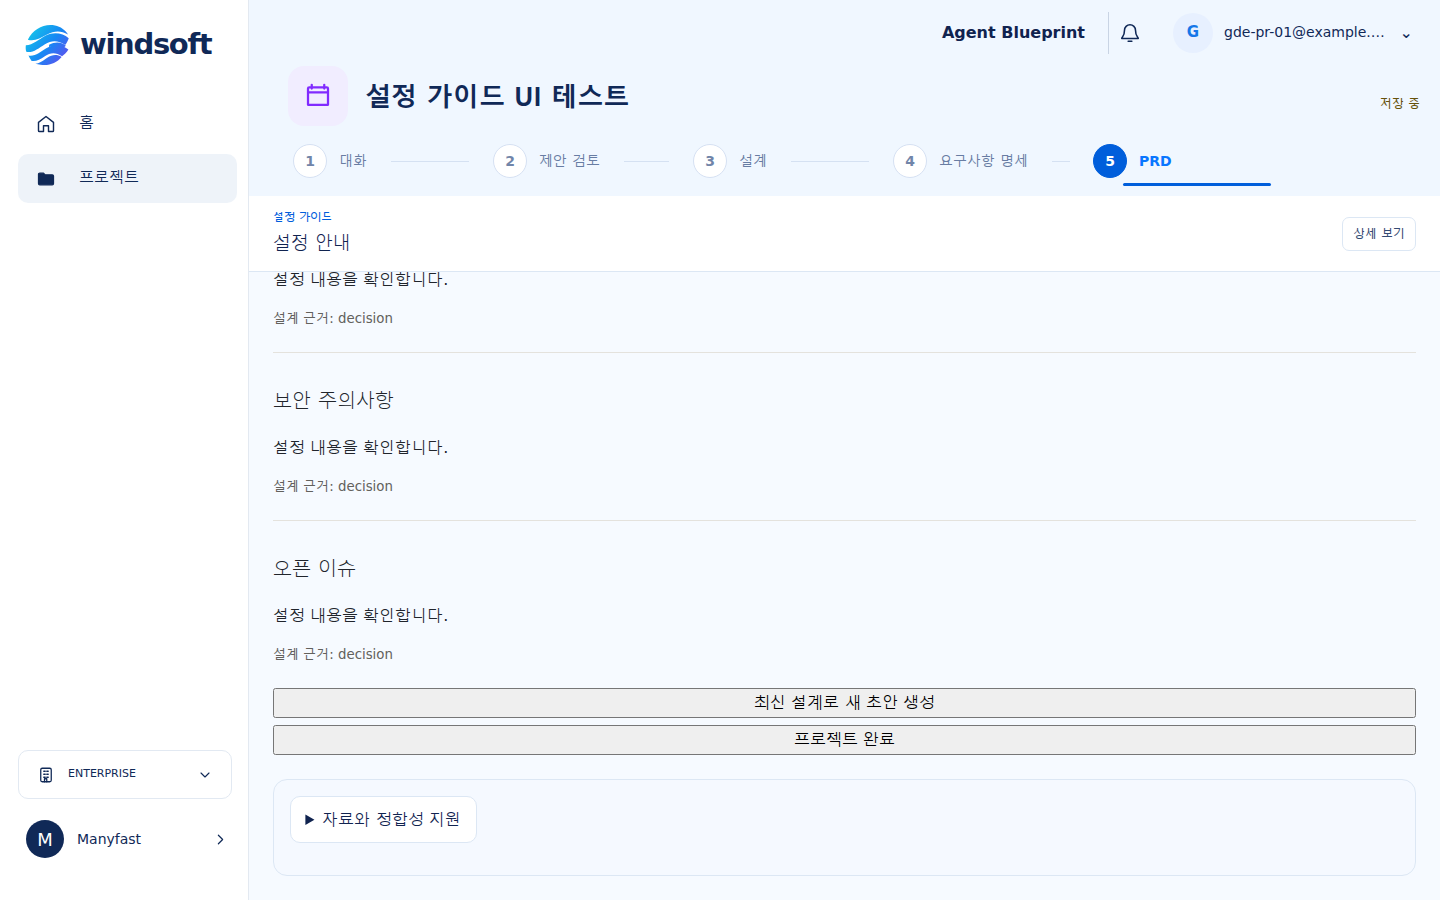
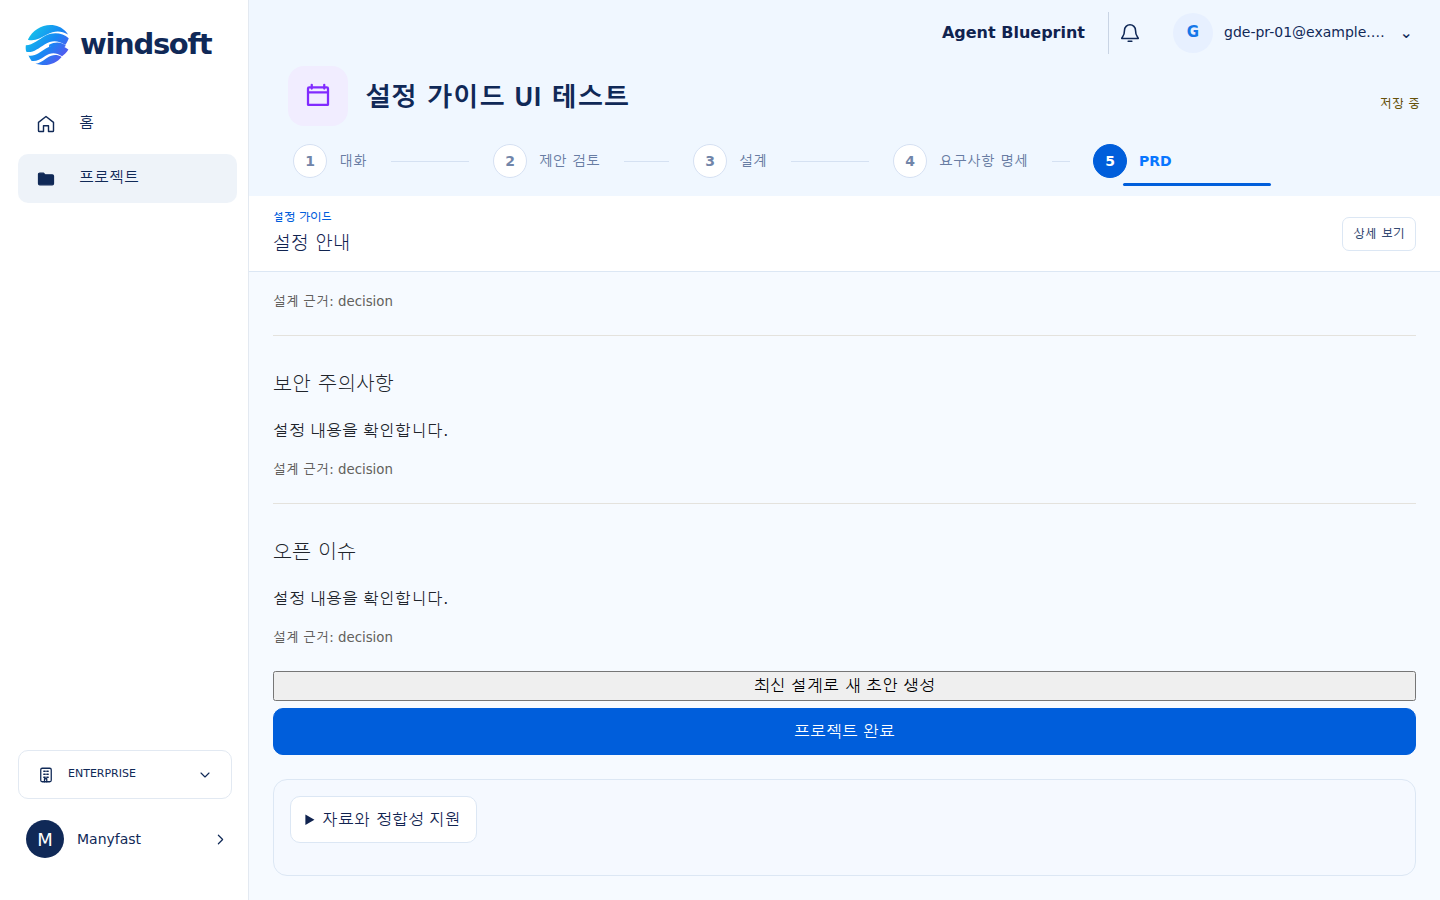
Style document review actions

diff --git a/tests/e2e/doc-pr-02-prd-readiness.spec.ts b/tests/e2e/doc-pr-02-prd-readiness.spec.ts
@@ -7,18 +7,40 @@ const identity={issuer:'https://accounts.google.com',subject:'doc-pr-02-ready',e
 const projectId='doc-pr-02-project';
 const now='2026-10-15T00:00:00.000Z';
 const requirementKeys=['overview','functional','non_functional','data','integration','permissions','exceptions','deployment','operations','exclusions','open_issues'];
+const requirementMarkdown:Record<string,string>={
+  overview:'목적과 배경을 간결하게 요약합니다.\n- 해결하려는 문제\n- 기대하는 결과',
+  functional:'제공할 기능과 사용자 흐름을 정리합니다.\n- 사용 흐름과 완료 조건\n- 입력과 결과',
+  non_functional:'품질 기준과 운영 제약을 정리합니다.\n- 성능과 안정성\n- 접근성과 보안',
+  data:'관리할 정보와 데이터 생명주기를 정리합니다.\n- 데이터 항목과 관계\n- 보관과 삭제 기준',
+  integration:'연결 대상과 교환 방식을 정리합니다.\n- 연동 대상과 방식\n- 실패 시 처리',
+  permissions:'사용자 역할과 권한 범위를 정리합니다.\n- 역할별 접근 범위\n- 권한 변경과 확인',
+  exceptions:'예외 상황과 복구 기준을 정리합니다.\n- 오류 상황과 안내\n- 재시도와 복구',
+  deployment:'배포 환경과 적용 절차를 정리합니다.\n- 환경별 설정\n- 배포와 되돌리기',
+  operations:'운영 확인과 유지 관리 기준을 정리합니다.\n- 모니터링과 알림\n- 백업과 지원',
+  exclusions:'현재 범위에서 다루지 않을 내용을 정리합니다.\n- 제외 항목과 사유\n- 재검토 조건',
+  open_issues:'결정이 필요한 질문과 근거를 정리합니다.\n- 미결정 질문\n- 담당자와 결정 기준',
+};
+
+async function setDocumentSectionReviewStatus(page:any,databaseName:string,projectId:string,status:'confirmed'|'review_required') {
+  await page.evaluate(async({databaseName,projectId,status}:any)=>{
+    const db=await new Promise<IDBDatabase>((resolve,reject)=>{const request=indexedDB.open(databaseName,1);request.onsuccess=()=>resolve(request.result);request.onerror=()=>reject(request.error);});
+    const tx=db.transaction('projects','readwrite');const store=tx.objectStore('projects');const request=store.get(projectId);
+    request.onsuccess=()=>{const record=request.result;const item=record.designItems.find((candidate:any)=>candidate.id==='doc-section-edit');item.status=status;item.attributes.consistencyReviewRequired=status==='review_required';store.put(record);};
+    await new Promise<void>((resolve,reject)=>{tx.oncomplete=()=>resolve();tx.onerror=()=>reject(tx.error);});db.close();
+  },{databaseName,projectId,status});
+}
 
 test('explicit Requirements confirmation unlocks same-revision PRD generation on desktop and mobile',async({page})=>{
   await page.route('**/api/auth/session',(route)=>route.fulfill({status:200,json:{authenticated:true,user:identity}}));
   const ownerKey=await deriveOwnerKey(identity);
   await page.goto('/');
-  await page.evaluate(async({databaseName,ownerKey,projectId,now,requirementKeys})=>{
+  await page.evaluate(async({databaseName,ownerKey,projectId,now,requirementKeys,requirementMarkdown})=>{
     const db=await new Promise<IDBDatabase>((resolve,reject)=>{const request=indexedDB.open(databaseName,1);request.onupgradeneeded=()=>{const value=request.result;value.createObjectStore('projects',{keyPath:'id'});const activity=value.createObjectStore('activities',{keyPath:['projectId','id']});activity.createIndex('projectId','projectId',{unique:false});};request.onsuccess=()=>resolve(request.result);request.onerror=()=>reject(request.error);});
     const make=(id:string,type:string,extra:Record<string,unknown>={})=>({id,projectId,type,title:id,description:`${id} 설명`,status:'confirmed',priority:'must',attributes:{},evidence:[],acceptanceCriteria:[],relatedItemIds:[],createdAt:now,updatedAt:now,...extra});
     const documentId='requirements-doc';
-    const aggregate={project:{id:projectId,ownerKey,schemaVersion:1,title:'PRD 검토 테스트',status:'active',activeDocumentType:'requirements',activeThreadId:'thread',processState:'requirements_draft',designRevision:4,readiness:{state:'ready',areas:[],pendingProposalCount:0,conflictCount:0},createdAt:now,updatedAt:now,lastOpenedAt:now},thread:{id:'thread',projectId,title:'초기 대화',status:'active',createdAt:now,updatedAt:now},messages:[],answers:[],sources:[],designItems:[make('product','product_definition'),make('problem','problem'),make('goal','goal'),make('user','user_role'),make('scenario','scenario'),make('feature','requirement',{acceptanceCriteria:[{id:'criterion',text:'완료 상태가 보인다',status:'confirmed',evidence:[]}]}),make('scope','scope'),make('exclusion','out_of_scope'),make('metric','success_metric'),make('risk','risk'),make('doc-section-edit','document_section',{status:'review_required',relatedItemIds:['feature'],attributes:{sourceSectionId:'req-functional',consistencyReviewRequired:true}})],proposals:[],documents:[{id:documentId,projectId,type:'requirements',title:'테스트 Requirements',status:'review_required',designRevision:4,version:1,generationArtifact:'mock-generation-artifact',sectionIds:requirementKeys.map((key)=>`req-${key}`),requirements:[{id:'REQ-001',category:'functional',title:'기능',description:'기능 설명',priority:'P0',sourceItemIds:['feature'],acceptanceCriteria:[{text:'완료 상태가 보인다',sourceItemIds:['feature']}],openIssueIds:[]}],openIssues:[{id:'OPEN-1',title:'미정 결정',description:'나중에 확정',sourceItemIds:['problem']}],reviewIssues:[],createdAt:now,updatedAt:now}],sections:requirementKeys.map((key,order)=>({id:`req-${key}`,projectId,documentId,key,title:key,markdown:'요구사항',order,sourceItemIds:key==='functional'?['feature']:[],origin:'generated',syncStatus:'current',updatedAt:now})),generationJobs:[],requestLedgerEntries:[],contextManifests:[],activityEntries:[]};
+    const aggregate={project:{id:projectId,ownerKey,schemaVersion:1,title:'검토 대상 프로젝트',status:'active',activeDocumentType:'requirements',activeThreadId:'thread',processState:'requirements_draft',designRevision:4,readiness:{state:'ready',areas:[],pendingProposalCount:0,conflictCount:0},createdAt:now,updatedAt:now,lastOpenedAt:now},thread:{id:'thread',projectId,title:'초기 대화',status:'active',createdAt:now,updatedAt:now},messages:[],answers:[],sources:[],designItems:[make('product','product_definition'),make('problem','problem'),make('goal','goal'),make('user','user_role'),make('scenario','scenario'),make('feature','requirement',{acceptanceCriteria:[{id:'criterion',text:'완료 상태가 보인다',status:'confirmed',evidence:[]}]}),make('scope','scope'),make('exclusion','out_of_scope'),make('metric','success_metric'),make('risk','risk'),make('doc-section-edit','document_section',{title:'문서 섹션 변경',status:'confirmed',relatedItemIds:['feature'],attributes:{sourceSectionId:'req-functional',consistencyReviewRequired:false}})],proposals:[],documents:[{id:documentId,projectId,type:'requirements',title:'요구사항 명세',status:'review_required',designRevision:4,version:1,generationArtifact:'mock-generation-artifact',sectionIds:requirementKeys.map((key)=>`req-${key}`),requirements:[{id:'REQ-001',category:'functional',title:'기능',description:'기능 설명',priority:'P0',sourceItemIds:['feature'],acceptanceCriteria:[{text:'완료 상태가 보인다',sourceItemIds:['feature']}],openIssueIds:[]}],openIssues:[{id:'OPEN-1',title:'미정 결정',description:'나중에 확정',sourceItemIds:['problem']}],reviewIssues:[],createdAt:now,updatedAt:now}],sections:requirementKeys.map((key,order)=>({id:`req-${key}`,projectId,documentId,key,title:key,markdown:requirementMarkdown[key],order,sourceItemIds:key==='functional'?['feature']:[],origin:'generated',syncStatus:'current',updatedAt:now})),generationJobs:[],requestLedgerEntries:[],contextManifests:[],activityEntries:[]};
     const tx=db.transaction(['projects','activities'],'readwrite');tx.objectStore('projects').put({id:projectId,schemaVersion:1,...aggregate});await new Promise<void>((resolve,reject)=>{tx.oncomplete=()=>resolve();tx.onerror=()=>reject(tx.error);});db.close();
-  },{databaseName:databaseNameForOwner(ownerKey),ownerKey,projectId,now,requirementKeys});
+  },{databaseName:databaseNameForOwner(ownerKey),ownerKey,projectId,now,requirementKeys,requirementMarkdown});
   const viewport=page.viewportSize()!;
   let prdRequest:any;
   let releaseGeneration!:()=>void;
@@ -34,6 +56,18 @@ test('explicit Requirements confirmation unlocks same-revision PRD generation on
   });
   await page.goto(`/blueprints/${projectId}/requirements`);
   await expect(page.getByRole('heading',{name:'요구사항 명세 검토 완료'})).toBeVisible();
+  const reviewAction=page.getByRole('button',{name:'검토 완료 확인'});
+  await expect(reviewAction).toBeEnabled();
+  const reviewActionStyle=await reviewAction.evaluate((element)=>{const style=getComputedStyle(element);return {backgroundColor:style.backgroundColor,color:style.color,borderColor:style.borderColor};});
+  expect(reviewActionStyle).toEqual({backgroundColor:'rgb(0, 94, 219)',color:'rgb(255, 255, 255)',borderColor:'rgb(0, 94, 219)'});
+  await expect(reviewAction).not.toBeInViewport();
+  await expect(page.locator('.document-section-overview-card')).toHaveCount(11);
+  await expect(page.getByRole('heading',{name:'요구사항 명세',level:1})).toBeVisible();
+  await expect(page.getByRole('heading',{name:'선행 변경으로 재검토가 필요한 항목'})).toHaveCount(0);
+  await page.screenshot({path:test.info().outputPath(`requirements-review-pending-overview-${viewport.width}x${viewport.height}.png`),scale:'css'});
+  await reviewAction.scrollIntoViewIfNeeded();
+  await expect(reviewAction).toBeInViewport();
+  await page.screenshot({path:test.info().outputPath(`requirements-review-action-${viewport.width}x${viewport.height}.png`),scale:'css'});
   await page.goto(`/blueprints/${projectId}/prd`);
   await expect(page.getByRole('heading',{name:'제품 요구사항 문서',level:1})).toBeVisible();
   await expect(page.getByRole('heading',{level:1})).toHaveCount(1);
@@ -54,6 +88,7 @@ test('explicit Requirements confirmation unlocks same-revision PRD generation on
   await page.screenshot({path:test.info().outputPath(`requirements-ready-${viewport.width}x${viewport.height}.png`),scale:'css'});
   stored=await readStored(page,databaseNameForOwner(ownerKey),projectId);
   expect(stored.documents[0].status).toBe('ready');expect(stored.documents[0].readyDesignRevision).toBe(4);expect(stored.documents[0].readyAt).toBeTruthy();
+  await setDocumentSectionReviewStatus(page,databaseNameForOwner(ownerKey),projectId,'review_required');
   await page.getByRole('button',{name:'PRD 열기'}).click();
   await expect(page.getByRole('button',{name:'PRD 생성'})).toBeVisible();
   await page.getByRole('button',{name:'PRD 생성'}).click();

diff --git a/src/styles/blueprint-workspace.css b/src/styles/blueprint-workspace.css
@@ -93,6 +93,10 @@
 }
 
 .requirements-document { display:grid; gap:.45rem; color:var(--workspace-ink,#20242b); }
+.requirements-document .design-requirements-action.is-primary { min-height:2.75rem; padding:.65rem 1rem; border:1px solid var(--color-primary); border-radius:var(--radius-sm); background:var(--color-primary); color:var(--color-on-primary,#fff); font:inherit; font-weight:700; cursor:pointer; }
+.requirements-document .design-requirements-action.is-primary:hover:not(:disabled) { background:color-mix(in srgb,var(--color-primary) 90%,var(--color-text-strong)); }
+.requirements-document .design-requirements-action.is-primary:focus-visible { outline:3px solid var(--color-focus); outline-offset:3px; }
+.requirements-document .design-requirements-action.is-primary:disabled { border-color:var(--color-border-strong); background:var(--color-border-strong); color:var(--color-text-muted); cursor:not-allowed; }
 .requirements-page-header { display:grid; grid-template-columns:minmax(0,1fr) minmax(480px,1.1fr); align-items:center; gap:1rem; padding:.35rem 32px; border-bottom:1px solid var(--color-border); background:var(--color-surface); }
 .requirements-page-heading { min-width:0; }
 .requirements-page-heading .workspace-eyebrow { margin:0 0 .45rem; }

diff --git a/docs/delivery/evidence/UIR-PR-06/README.md b/docs/delivery/evidence/UIR-PR-06/README.md
@@ -1,18 +1,24 @@
 # UIR-PR-06 visual evidence
 
-These screenshots use synthetic local browser fixtures with generic, non-product-specific Korean section markdown. The refreshed screenshots were captured at PR #55 HEAD `354da91b0971b4e1571ad43881ca720d7ca455bf` at 1440×900 desktop and 390×844 mobile CSS viewports. The UIR-PR-06 Playwright spec regenerated the overview and conflict states (2/2 passed); the Requirements readiness and PRD editing-flow specs regenerated other existing states affected by the shared document header/cards (8/8 passed). The requirements overview shows the Korean `요구사항 명세` title, 11 individually navigable localized sections, linked requirement data, step 4 current, and PRD as separate next step 5. The complete evidence set, including interaction-state captures, is stored under `docs/delivery/evidence/UIR-PR-06/`; raw Playwright artifacts remain under `.pr-artifacts/UIR-PR-06/`.
+These screenshots use synthetic local browser fixtures with generic, non-product-specific Korean section markdown. The requirements overview, review-action, readiness, UIR-PR-06, and document-editing state screenshots were regenerated from worktree `HEAD ebefae5f215b72b9db9c9d80717b15dcc4d64019` with the local primary-action style correction applied, at 1440×900 desktop and 390×844 mobile CSS viewports. The UIR-PR-06 and Requirements readiness specs passed 4/4; the document-editing spec passed 6/6. The main requirements overview shows a `review_required` document with the Korean `요구사항 명세` title, 11 individually navigable localized sections, linked requirement data, step 4 current, and PRD as separate next step 5. The review action uses the workspace primary color and remains enabled and reachable after scrolling. The complete evidence set, including interaction-state captures, is stored under `docs/delivery/evidence/UIR-PR-06/`; raw Playwright artifacts remain under `.pr-artifacts/UIR-PR-06/`.
 
 Primary references: [Requirements dashboard](../../../blueprint-design/회의실%20예약%20서비스%20요구사항%20대시보드.png) and [PRD dashboard](../../../blueprint-design/한국어%20PRD%20대시보드%20화면.png), both 1586×992. Template captures were used only to verify requirements draft/overview/detail and PRD generation states absent from the primary images.
 
 ## Requirements
 
-Ready document overview, 11 localized sections:
+Review-pending document overview, 11 localized sections:
 
 ![Requirements desktop overview](requirements-overview-desktop-1440x900.png)
 
 ![Requirements mobile overview](requirements-overview-mobile-390x844.png)
 
-Ready confirmation and document support/source access are also covered by `requirements-ready-*.png` and `requirements-sources-*.png`.
+The review-pending fixture keeps the document eligible and contains no unrelated re-review warning. The enabled blue `검토 완료 확인` action is below the initial viewport because it follows all 11 individually navigable sections; it remains reachable by scrolling. The test checks the computed primary colors and scroll reachability. The next captures show the action after scrolling:
+
+![Requirements review action desktop](requirements-review-action-desktop-1440x900.png)
+
+![Requirements review action mobile](requirements-review-action-mobile-390x844.png)
+
+Ready confirmation and document support/source access are also covered separately by `requirements-ready-*.png` and `requirements-sources-*.png`.
 
 Requirements conflict overview/detail captures are available at both viewports. The header reports `충돌 해결 필요`; the detail view shows the edit lock and resolution guidance. These captures were regenerated at PR #55 HEAD with the current 11-card hierarchy.
 
@@ -42,8 +48,9 @@ Approximate measurements use the source and refreshed render screenshots without
 | First section card top | y≈263 / 992 (26.5%) | y≈275 / 900 (30.6%) | +4.1 percentage points, within the 5% position tolerance |
 | First section card width | ≈1021 / 1586 (64.4%) | ≈892 / 1440 (61.9%) | −2.5 percentage points |
 | First section card height | ≈119 / 992 (12.0%) | ≈115 / 900 (12.8%) | +0.8 percentage points |
+| Review-completion action | Near the bottom of the five-card reference | After all 11 sections; below the initial viewport at 1440×900 and 390×844 | Deliberate 11-section choice; enabled action is reached and captured after scrolling |
 
-The cards follow the reference hierarchy with an icon, Korean title and markdown summary, stored sync-status badge, content and linked requirement area, and detail action. Status derives from stored section sync state, and linked requirements are matched from source IDs. Additional markdown lines and linked requirement data appear in the content area; when neither exists, the concise empty state reads `연결된 항목 없음`. No sample product claims are added. The rendered card tops are about 36px below the proportional source coordinate at a 900px viewport height. The shared project title/save row and numbered stage navigation remain visible; the duplicate document work-panel title was removed. The requirements route marks `요구사항 명세` step 4 current; PRD remains a separate next step 5. The active stage label is automatically revealed in the horizontally scrollable navigation on mobile. All 11 canonical section keys appear with Korean presentation labels and persisted data is unchanged.
+The anchor comparison uses the review-pending state. Its 11-section layout intentionally keeps one navigable card for each canonical section, placing the review action after the full list. The screenshots and test show that the blue action is enabled and reachable after scrolling on both viewports. Cards follow the reference hierarchy with an icon, Korean title and markdown summary, stored sync-status badge, content and linked requirement area, and detail action. Status derives from stored section sync state, and linked requirements are matched from source IDs. Additional markdown lines and linked requirement data appear in the content area; when neither exists, the concise empty state reads `연결된 항목 없음`. No sample product claims are added. The rendered card tops are about 36px below the proportional source coordinate at a 900px viewport height. The shared project title/save row and numbered stage navigation remain visible; the duplicate document work-panel title was removed. The requirements route marks `요구사항 명세` step 4 current; PRD remains a separate next step 5. The active stage label is automatically revealed in the horizontally scrollable navigation on mobile. All 11 canonical section keys appear with Korean presentation labels and persisted data is unchanged.
 
 Requirements and PRD use one document H1, H2 for overview and selected document sections, and H3 for nested section cards and requirement items. The semantic heading correction retains the prior rendered font scale. Sections marked conflict provide resolution guidance and do not expose direct edit or AI patch-target controls.
 
